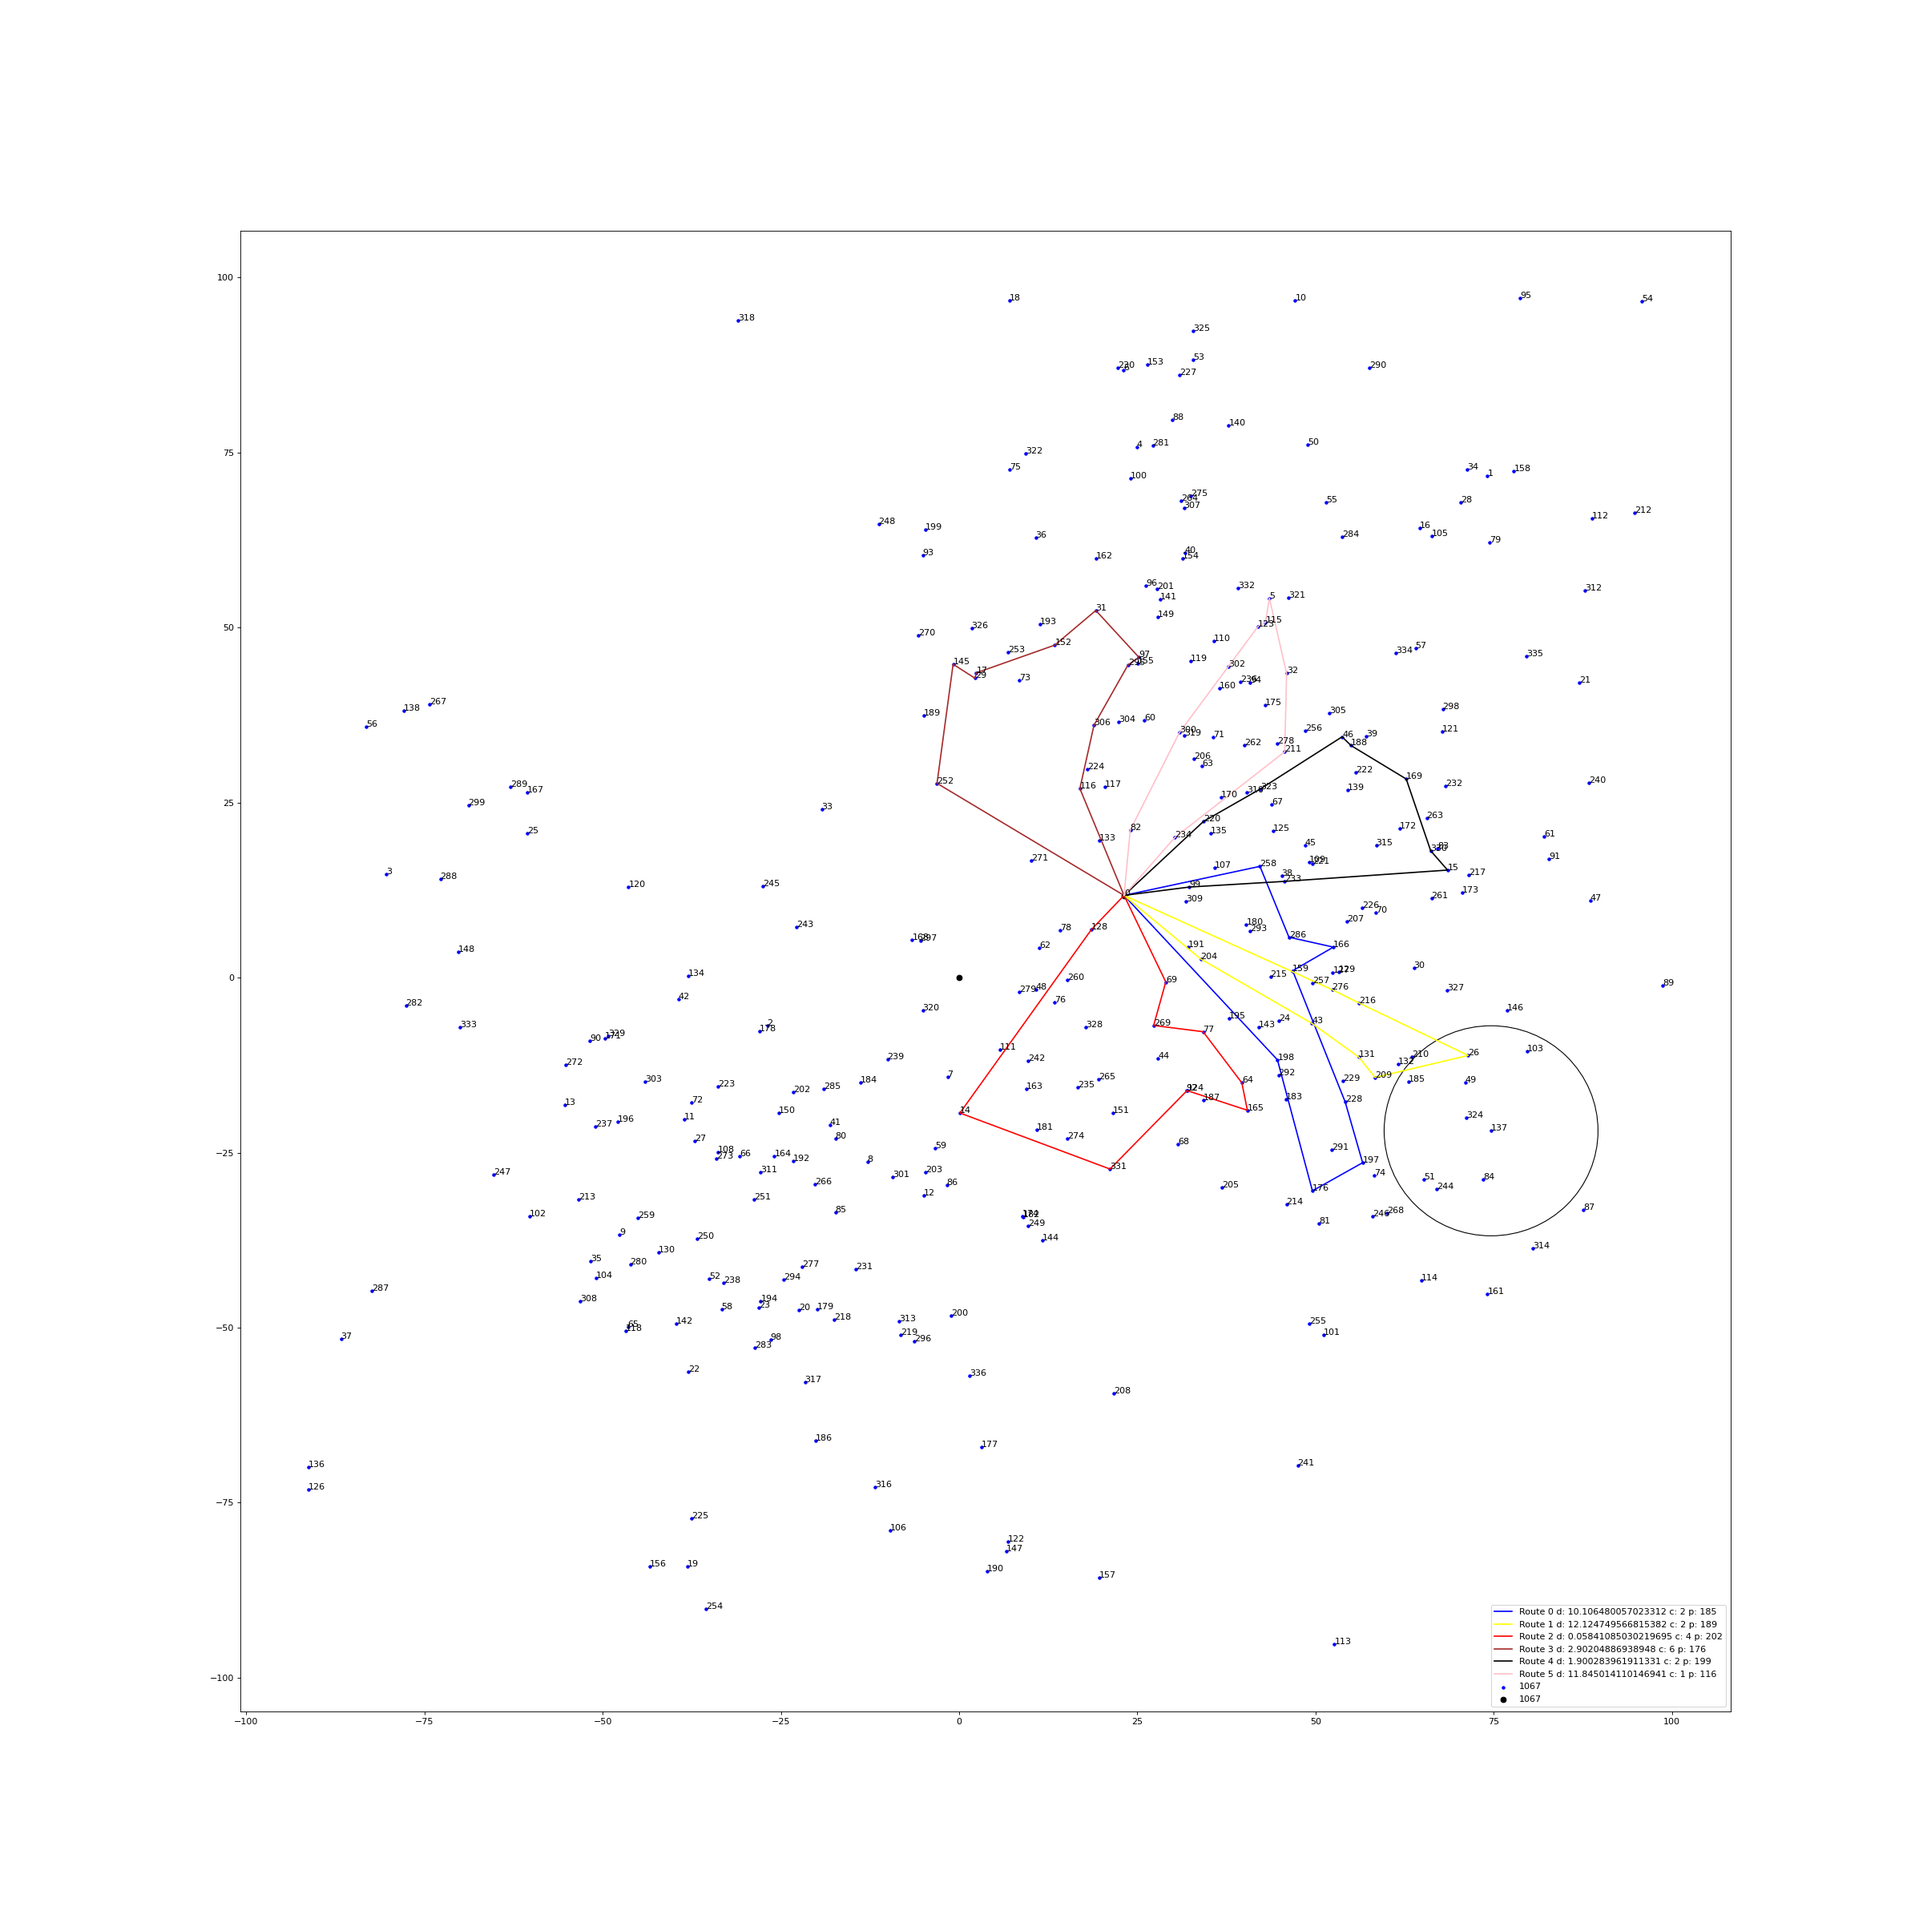
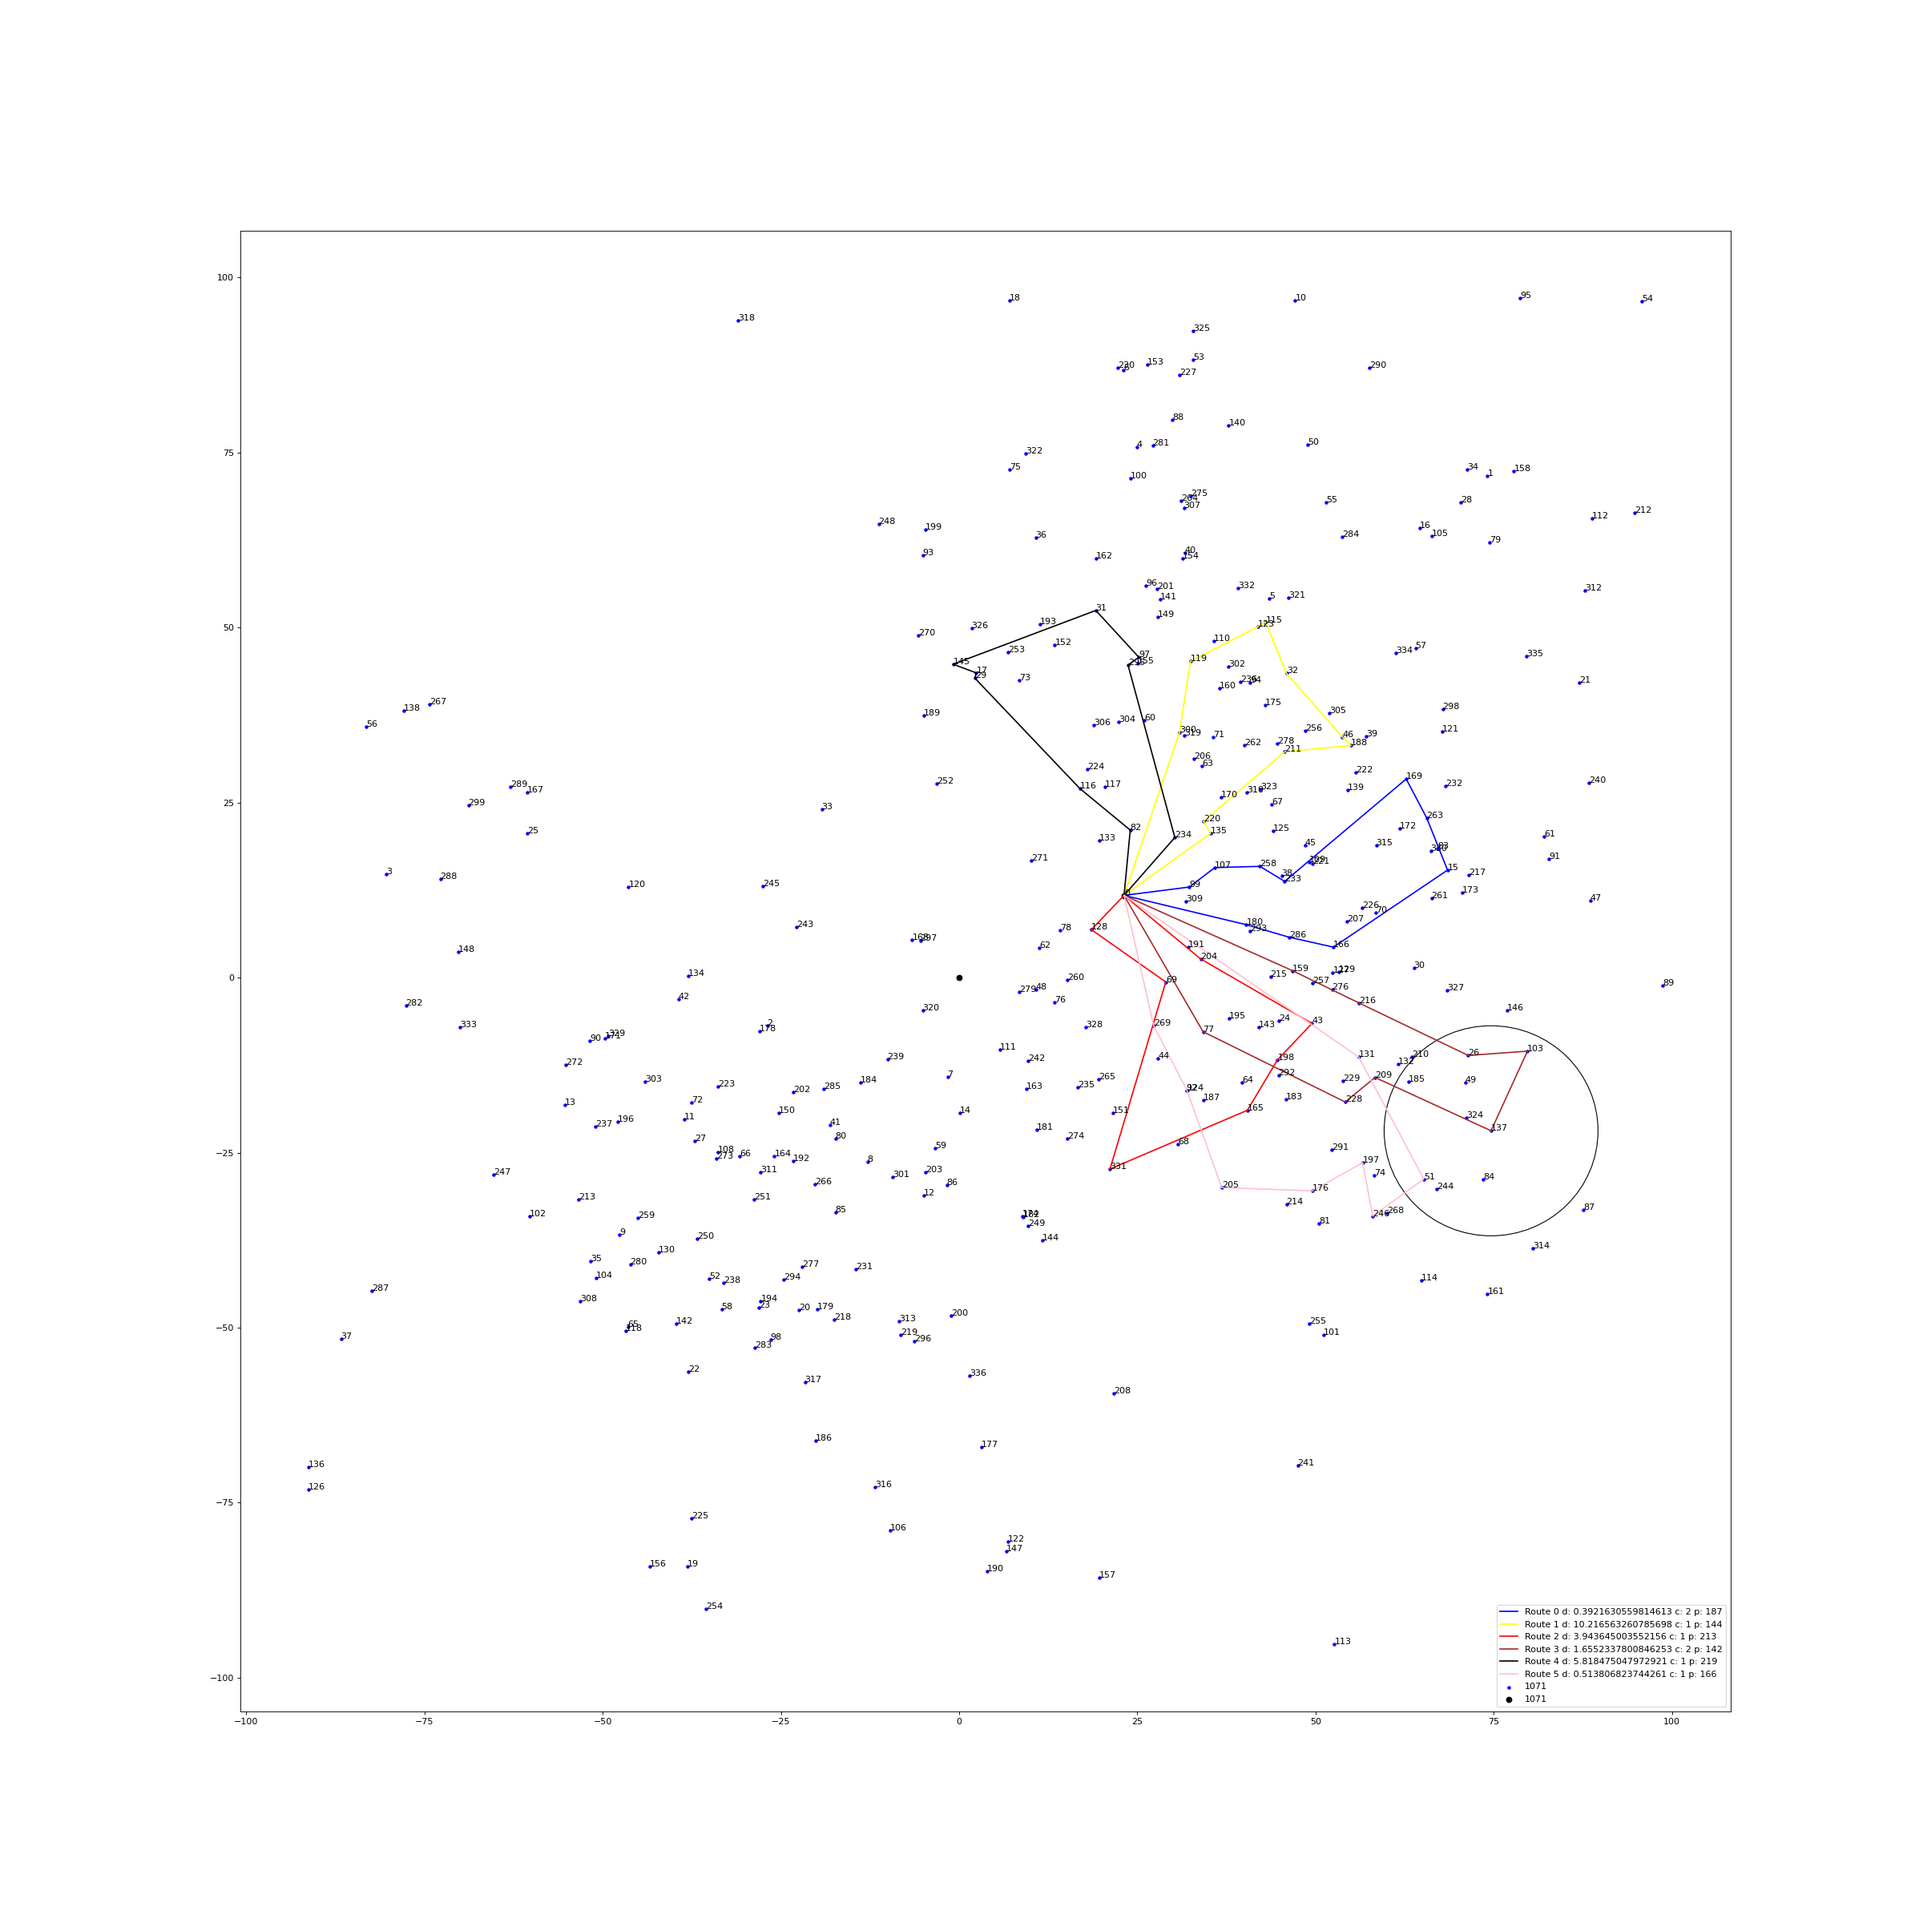
1071

Changed region(s): [[0.5625, 0.4062, 0.6562, 0.5312], [0.7812, 0.8438, 0.9062, 0.875], [0.6562, 0.5, 0.6875, 0.5625]]

diff --git a/Solution.py b/Solution.py
@@ -176,7 +176,7 @@ class Solution:
                 break
         # randomly select one of the best nodes
         population = [0, 1, 2, 3, 4, 5]
-        weights = [0.35, 0.25, 0.20, 0.10, 0.05, 0.05]
+        weights = [6, 5, 4, 3, 2, 1]
         if best_li:
             rand_index = rand.choices(population[:len(best_li)], weights[:len(best_li)])
             return best_li[rand_index[0]]

diff --git a/main.py b/main.py
@@ -11,7 +11,7 @@ mod.load_model("Instance.txt")
 mod.build_cost_matrix()
 mod.build_selection_matrix()
 s = Solution(mod)
-n = 550
+n = 50
 test_sol = Solution(mod)
 test_sol.initialize(mod)
 pos = 0
